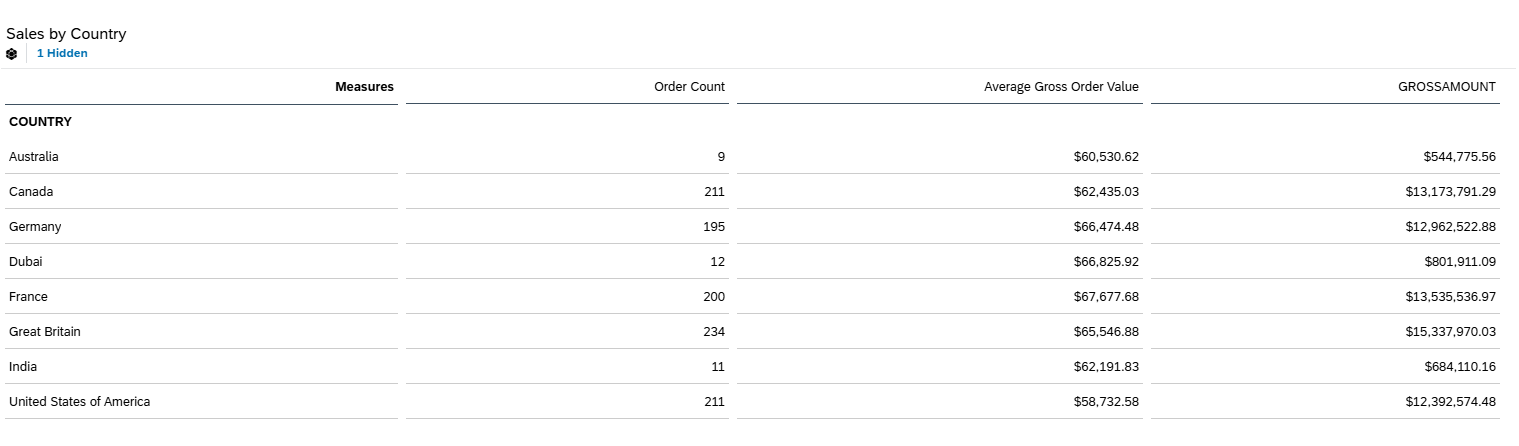
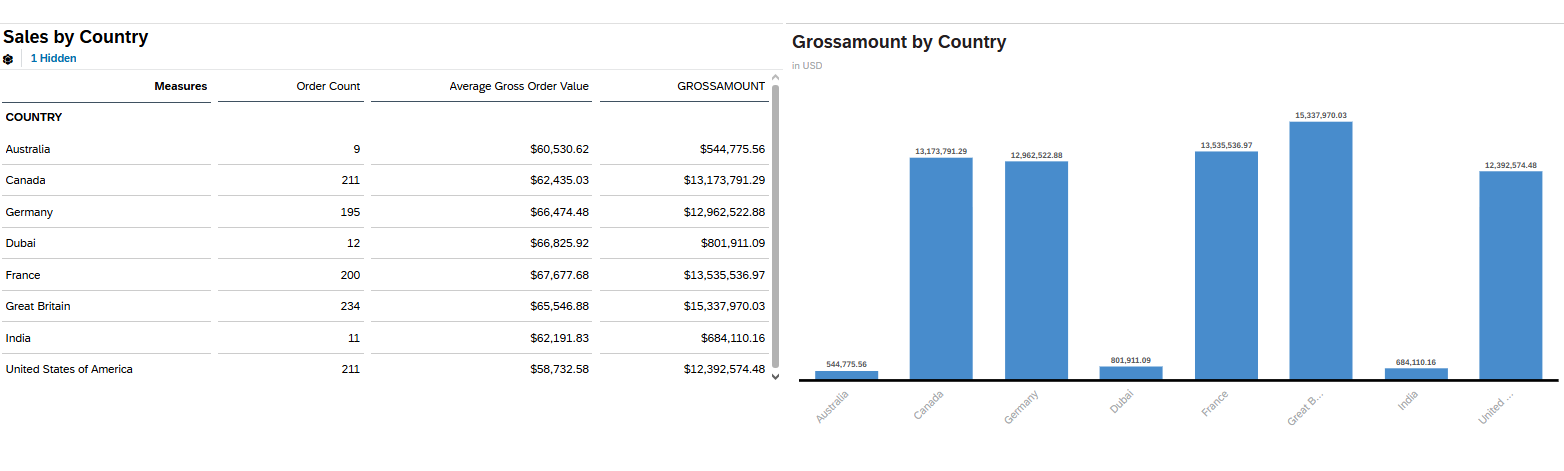
Add SAP analytics cloud portfolio

diff --git a/README.md b/README.md
@@ -34,11 +34,13 @@ The SAC dashboard shows annual KPI cards, monthly budget availability, and actua
 
 ## Sales — Performance Dashboard
 
-Adapted a SAC Story with three KPI cards, monthly gross sales, a customer-location map, and a country table. Year-filter checks matched Datasphere for 2021 and 2022; incomplete 2023 is excluded from the annual comparison. The screenshot shows 2022.
+Adapted a SAC Story with three KPI cards, monthly gross sales, a customer-location map, and a country table with a comparison chart. Year-filter checks matched Datasphere for 2021 and 2022; incomplete 2023 is excluded from the annual comparison. Both screenshots show 2022.
 
 ![SAP Analytics Cloud Sales Performance dashboard for 2022](Screenshots/sac_sales_overview.png)
 
-[Analytic model JSON](Models/SALES%20MODEL/Sales_Analytic_Model.json) · [Country table](Screenshots/sac_sales_country_details.png) · [Story details and validation](docs/sales.md#sap-analytics-cloud-story)
+![2022 sales by country: order count, average order value, and gross sales with a country comparison chart](Screenshots/sac_sales_country_details.png)
+
+[Analytic model JSON](Models/SALES%20MODEL/Sales_Analytic_Model.json) · [Story details and validation](docs/sales.md#sap-analytics-cloud-story)
 
 ## Explore the project
 

diff --git a/docs/sales.md b/docs/sales.md
@@ -70,11 +70,12 @@ The existing tutorial Story `GE381380_Sales_Analytics_Visualization` was adapted
 - Monthly Gross Sales: a time-series chart using OrderCreationDate at Month level.
 - Gross Sales by Customer Location: the existing geographical view, with a clearer title.
 - Sales by Country: all eight sample country labels with the three measures.
+- Grossamount by Country: a column chart comparing gross sales across the same eight country labels, included in the refreshed screenshot on 18 October 2026.
 - Year input control linked to the page widgets. The captured view selects 2022.
 
 ![SAC Sales Performance overview, 2022](../Screenshots/sac_sales_overview.png)
 
-![SAC country details, 2022](../Screenshots/sac_sales_country_details.png)
+![SAC country table and gross-sales comparison chart, 2022](../Screenshots/sac_sales_country_details.png)
 
 ### Interaction checks
 
